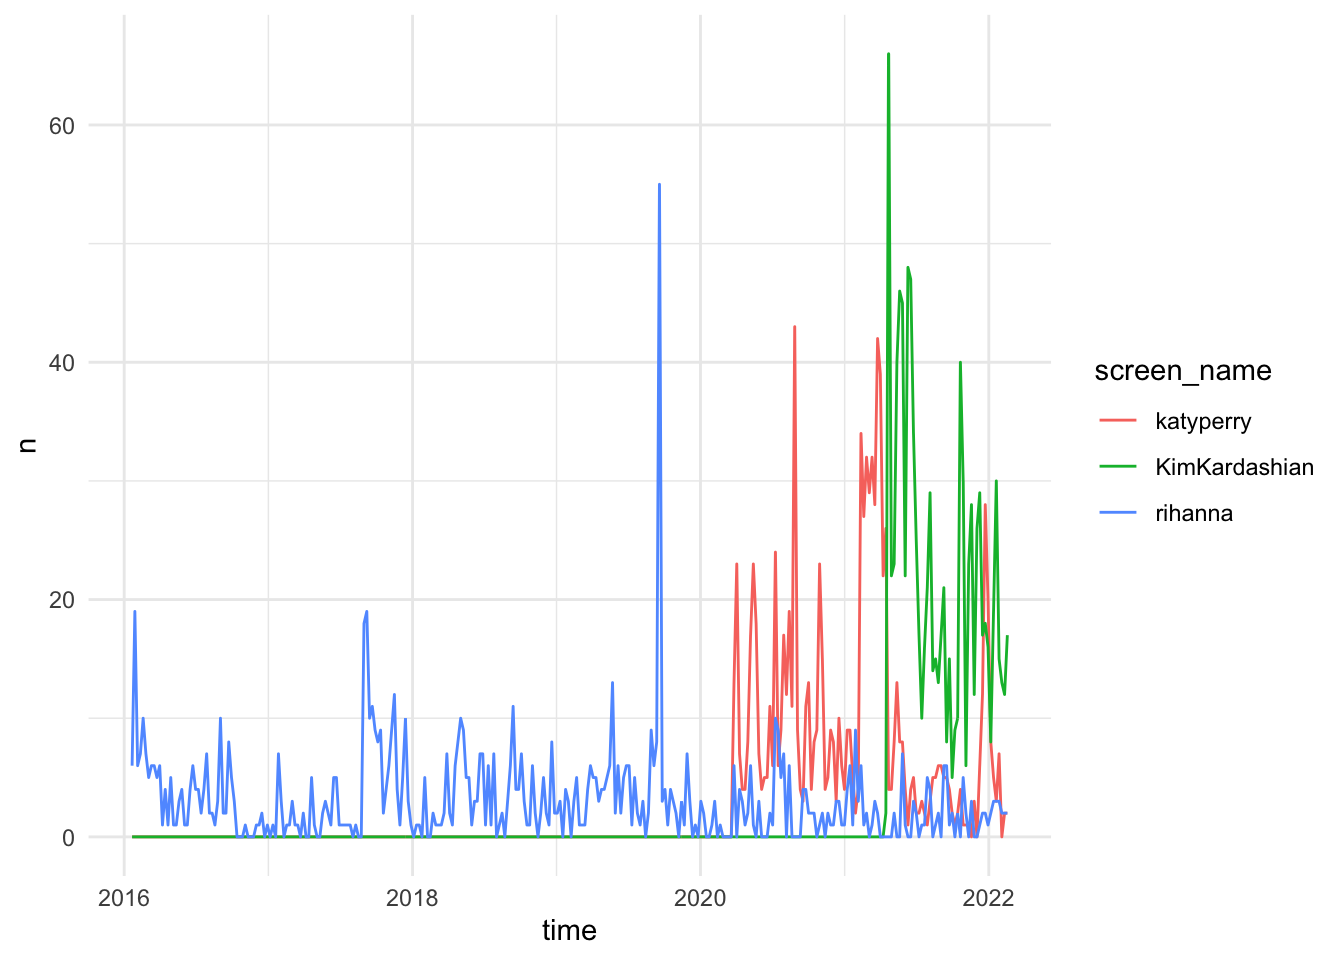
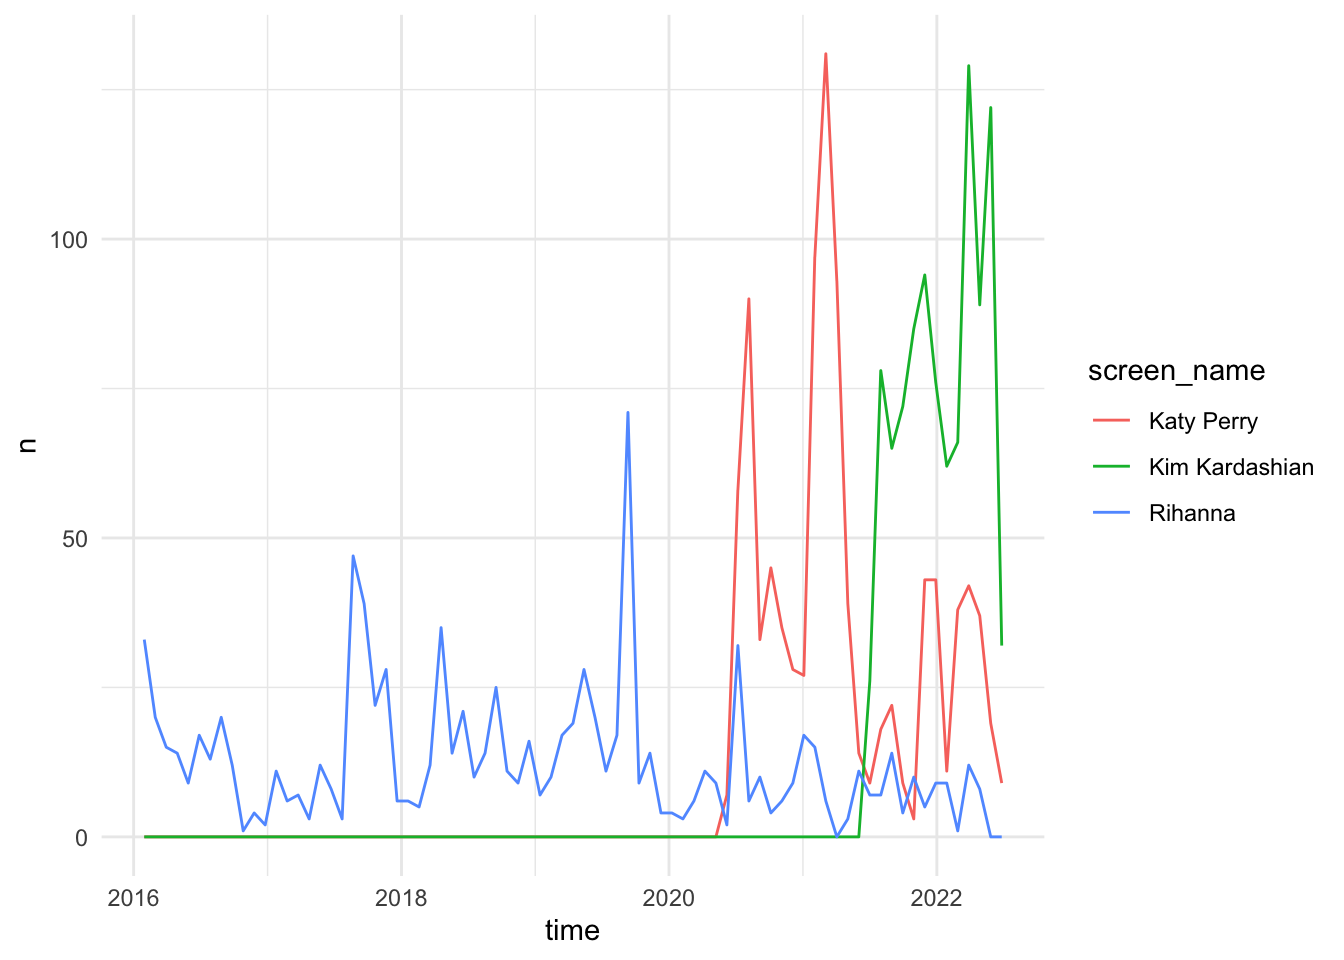
Update twitter exercise using new rtweet and Twitter API v2

diff --git a/content/notes/twitter-api-practice/index.md b/content/notes/twitter-api-practice/index.md
@@ -19,7 +19,7 @@ menu:
 
 ```r
 library(tidyverse)
-library(broom)
+library(rtweet)
 
 set.seed(1234)
 theme_set(theme_minimal())
@@ -44,20 +44,22 @@ Popular packages for the Twitter API in R include:
 
 * [`twitteR`](https://cran.rstudio.com/web/packages/twitteR/index.html) is the most popular package for R, but it only allows you to access the REST API. It is also deprecated (not actively updated), in lieu of a new up-and-coming package (identified below)
 * [`streamR`](https://cran.rstudio.com/web/packages/streamR/index.html) is more complicated, but allows you to query the Streaming API from R. It is ancient in computational terms (last updated in January 2014), but does what it needs to do.
-* [`rtweet`](http://rtweet.info/) is a relatively recent addition to the R package universe that allows you to access both the REST and streaming APIs.
+* [`rtweet`](https://docs.ropensci.org/rtweet/) is a relatively recent addition to the R package universe that allows you to access both the REST and streaming APIs.
 
 ## Using `rtweet`
 
-Here, we are going to practice using the `rtweet` package to search Twitter.
+Here, we are going to practice using the `rtweet` package to search Twitter. Use the version on GitHub for the most recent updates.
 
 ```r
-install.packages("rtweet")
+remotes::install_github("ropensci/rtweet")
 ```
 
 
 ```r
 library(rtweet)
 ```
+
+
 
 ## OAuth authentication
 
@@ -118,76 +120,76 @@ Note that the Twitter REST API limits all searches to the past 6-9 days. **You w
 
 ## Searching users
 
-Use `get_timeline()` or `get_timelines()` to retrieve tweets from one or more specified Twitter users. This only works for users with public profiles or those that have authorized your app.
+Use `get_timeline()` to retrieve tweets from one or more specified Twitter users. This only works for users with public profiles or those that have authorized your app.
 
 
 ```r
-countvoncount <- get_timeline(user = "countvoncount", n = 1000)
+countvoncount <- get_timeline(user = "countvoncount", n = 4000)
 countvoncount
 ```
 
 ```
-## # A tibble: 1,000 × 90
-##    user_id   status_id           created_at          screen_name   text   source
-##    <chr>     <chr>               <dttm>              <chr>         <chr>  <chr> 
-##  1 555129716 1468700740285874180 2021-12-08 21:55:18 CountVonCount Three… Count…
-##  2 555129716 1468640341196738564 2021-12-08 17:55:18 CountVonCount Three… Count…
-##  3 555129716 1468429755242455040 2021-12-08 03:58:30 CountVonCount Three… Count…
-##  4 555129716 1468339156493426693 2021-12-07 21:58:29 CountVonCount Three… Count…
-##  5 555129716 1468034370204221444 2021-12-07 01:47:23 CountVonCount Three… Count…
-##  6 555129716 1467958871172034568 2021-12-06 20:47:22 CountVonCount Three… Count…
-##  7 555129716 1467613900413992960 2021-12-05 21:56:35 CountVonCount Three… Count…
-##  8 555129716 1467266070788595724 2021-12-04 22:54:26 CountVonCount Three… Count…
-##  9 555129716 1466873476569092105 2021-12-03 20:54:24 CountVonCount Three… Count…
-## 10 555129716 1466552417869312006 2021-12-02 23:38:38 CountVonCount Three… Count…
-## # … with 990 more rows, and 84 more variables: display_text_width <dbl>,
-## #   reply_to_status_id <lgl>, reply_to_user_id <lgl>,
-## #   reply_to_screen_name <lgl>, is_quote <lgl>, is_retweet <lgl>,
-## #   favorite_count <int>, retweet_count <int>, quote_count <int>,
-## #   reply_count <int>, hashtags <list>, symbols <list>, urls_url <list>,
-## #   urls_t.co <list>, urls_expanded_url <list>, media_url <list>,
-## #   media_t.co <list>, media_expanded_url <list>, media_type <list>, …
+## # A tibble: 3,250 × 43
+##    created_at               id id_str       full_text truncated display_text_ra…
+##    <dttm>                <dbl> <chr>        <chr>     <lgl>                <dbl>
+##  1 2022-07-10 13:21:59 1.55e18 15461980612… Three th… FALSE                   39
+##  2 2022-07-09 13:21:57 1.55e18 15458356669… Three th… FALSE                   50
+##  3 2022-07-08 15:21:56 1.55e18 15455034720… Three th… FALSE                   38
+##  4 2022-07-08 09:21:55 1.55e18 15454128729… Three th… FALSE                   38
+##  5 2022-07-07 15:21:54 1.55e18 15451410766… Three th… FALSE                   34
+##  6 2022-07-06 12:21:52 1.54e18 15447333824… Three th… FALSE                   39
+##  7 2022-07-06 08:21:52 1.54e18 15446729831… Three th… FALSE                   50
+##  8 2022-07-05 17:21:51 1.54e18 15444464861… Three th… FALSE                   40
+##  9 2022-07-05 08:21:50 1.54e18 15443105881… Three th… FALSE                   38
+## 10 2022-07-04 19:21:49 1.54e18 15441142913… Three th… FALSE                   39
+## # … with 3,240 more rows, and 37 more variables: entities <list>, source <chr>,
+## #   in_reply_to_status_id <lgl>, in_reply_to_status_id_str <lgl>,
+## #   in_reply_to_user_id <lgl>, in_reply_to_user_id_str <lgl>,
+## #   in_reply_to_screen_name <lgl>, geo <list>, coordinates <list>,
+## #   place <list>, contributors <lgl>, is_quote_status <lgl>,
+## #   retweet_count <int>, favorite_count <int>, favorited <lgl>,
+## #   retweeted <lgl>, lang <chr>, possibly_sensitive <list>, …
 ```
 
-With `get_timelines()`, you are not limited to only the most recent 6-9 days of tweets.
+With `get_timeline()`, you are not limited to only the most recent 6-9 days of tweets.
 
 ## Visualizing tweets
 
 Because the resulting objects are data frames, you can perform standard data transformation, summarization, and visualization on the underlying data.
 
-`rtweet` includes the `ts_plot()` function which automates some common time series visualization methods. For example, we can quickly visualize the frequency of `#rstats` tweets:
+`rtweet` includes the `ts_plot()` function which automates some common time series visualization methods. For example, we can quickly visualize the frequency of `@countvoncount` tweets:
 
 
 ```r
-ts_plot(rt, by = "3 hours")
+ts_plot(countvoncount, by = "1 week")
 ```
 
-<img src="{{< blogdown/postref >}}index_files/figure-html/rstats-freq-1.png" width="672" />
+<img src="{{< blogdown/postref >}}index_files/figure-html/countvoncount-freq-1.png" width="672" />
 
 The `by` argument allows us to aggregate over different lengths of time.
 
 
 ```r
-ts_plot(rt, by = "1 hours")
+ts_plot(countvoncount, by = "1 month")
 ```
 
-<img src="{{< blogdown/postref >}}index_files/figure-html/rstats-freq-day-1.png" width="672" />
+<img src="{{< blogdown/postref >}}index_files/figure-html/countvoncount-freq-month-1.png" width="672" />
 
 And because `ts_plot()` uses `ggplot2`, we can modify the graphs using familiar `ggplot2` functions:
 
 
 ```r
-ts_plot(rt, by = "3 hours") +
+ts_plot(countvoncount, by = "1 week") +
   theme(plot.title = element_text(face = "bold")) +
   labs(
     x = NULL, y = NULL,
-    title = "Frequency of #rstats Twitter statuses from past 9 days",
-    subtitle = "Twitter status (tweet) counts aggregated using three-hour intervals",
+    title = "Frequency of @countvoncount Twitter posts",
+    subtitle = "Twitter status (tweet) counts aggregated using one week intervals",
     caption = "\nSource: Data collected from Twitter's REST API via rtweet"
   )
 ```
 
-<img src="{{< blogdown/postref >}}index_files/figure-html/rstats-freq-clean-1.png" width="672" />
+<img src="{{< blogdown/postref >}}index_files/figure-html/countvoncount-freq-clean-1.png" width="672" />
 
 ## Exercise: Practice using `rtweet`
 
@@ -198,14 +200,30 @@ ts_plot(rt, by = "3 hours") +
 
 
 ```r
-popstars <- get_timelines(
-  user = c("katyperry", "KimKardashian", "rihanna"),
+katy_perry <- get_timeline(
+  user = "katyperry",
   n = 1000
 )
 
-popstars %>%
+kim_kardashian <- get_timeline(
+  user = "KimKardashian",
+  n = 1000
+)
+
+rihanna <- get_timeline(
+  user = "rihanna",
+  n = 1000
+)
+
+# combine, group by character, and plot weekly tweet frequency
+bind_rows(
+  `Katy Perry` = katy_perry %>% select(created_at),
+  `Kim Kardashian` = kim_kardashian %>% select(created_at),
+  `Rihanna` = rihanna %>% select(created_at),
+  .id = "screen_name"
+) %>%
   group_by(screen_name) %>%
-  ts_plot(by = "week")
+  ts_plot(by = "months")
 ```
 
 <img src="{{< blogdown/postref >}}index_files/figure-html/twitter-popstars-1.png" width="672" />
@@ -229,110 +247,101 @@ devtools::session_info()
 ```
 ## ─ Session info ───────────────────────────────────────────────────────────────
 ##  setting  value
-##  version  R version 4.1.2 (2021-11-01)
-##  os       macOS Monterey 12.1
+##  version  R version 4.2.0 (2022-04-22)
+##  os       macOS Monterey 12.2.1
 ##  system   aarch64, darwin20
 ##  ui       X11
 ##  language (EN)
 ##  collate  en_US.UTF-8
 ##  ctype    en_US.UTF-8
 ##  tz       America/Chicago
-##  date     2022-02-24
+##  date     2022-07-11
 ##  pandoc   2.17.1.1 @ /Applications/RStudio.app/Contents/MacOS/quarto/bin/ (via rmarkdown)
 ## 
 ## ─ Packages ───────────────────────────────────────────────────────────────────
-##  package     * version date (UTC) lib source
-##  askpass       1.1     2019-01-13 [1] CRAN (R 4.1.0)
-##  assertthat    0.2.1   2019-03-21 [1] CRAN (R 4.1.0)
-##  backports     1.4.1   2021-12-13 [1] CRAN (R 4.1.1)
-##  blogdown      1.7     2021-12-19 [1] CRAN (R 4.1.1)
-##  bookdown      0.24    2021-09-02 [1] CRAN (R 4.1.1)
-##  brio          1.1.3   2021-11-30 [1] CRAN (R 4.1.1)
-##  broom       * 0.7.12  2022-01-28 [1] CRAN (R 4.1.1)
-##  bslib         0.3.1   2021-10-06 [1] CRAN (R 4.1.1)
-##  cachem        1.0.6   2021-08-19 [1] CRAN (R 4.1.1)
-##  callr         3.7.0   2021-04-20 [1] CRAN (R 4.1.0)
-##  cellranger    1.1.0   2016-07-27 [1] CRAN (R 4.1.0)
-##  cli           3.2.0   2022-02-14 [1] CRAN (R 4.1.1)
-##  codetools     0.2-18  2020-11-04 [1] CRAN (R 4.1.2)
-##  colorspace    2.0-3   2022-02-21 [1] CRAN (R 4.1.1)
-##  crayon        1.5.0   2022-02-14 [1] CRAN (R 4.1.1)
-##  curl          4.3.2   2021-06-23 [1] CRAN (R 4.1.0)
-##  DBI           1.1.2   2021-12-20 [1] CRAN (R 4.1.1)
-##  dbplyr        2.1.1   2021-04-06 [1] CRAN (R 4.1.0)
-##  desc          1.4.0   2021-09-28 [1] CRAN (R 4.1.1)
-##  devtools      2.4.3   2021-11-30 [1] CRAN (R 4.1.1)
-##  digest        0.6.29  2021-12-01 [1] CRAN (R 4.1.1)
-##  dplyr       * 1.0.7   2021-06-18 [1] CRAN (R 4.1.0)
-##  ellipsis      0.3.2   2021-04-29 [1] CRAN (R 4.1.0)
-##  evaluate      0.15    2022-02-18 [1] CRAN (R 4.1.1)
-##  fansi         1.0.2   2022-01-14 [1] CRAN (R 4.1.1)
-##  farver        2.1.0   2021-02-28 [1] CRAN (R 4.1.0)
-##  fastmap       1.1.0   2021-01-25 [1] CRAN (R 4.1.0)
-##  forcats     * 0.5.1   2021-01-27 [1] CRAN (R 4.1.1)
-##  fs            1.5.2   2021-12-08 [1] CRAN (R 4.1.1)
-##  generics      0.1.2   2022-01-31 [1] CRAN (R 4.1.1)
-##  ggplot2     * 3.3.5   2021-06-25 [1] CRAN (R 4.1.1)
-##  glue          1.6.1   2022-01-22 [1] CRAN (R 4.1.1)
-##  gtable        0.3.0   2019-03-25 [1] CRAN (R 4.1.1)
-##  haven         2.4.3   2021-08-04 [1] CRAN (R 4.1.1)
-##  here          1.0.1   2020-12-13 [1] CRAN (R 4.1.0)
-##  highr         0.9     2021-04-16 [1] CRAN (R 4.1.0)
-##  hms           1.1.1   2021-09-26 [1] CRAN (R 4.1.1)
-##  htmltools     0.5.2   2021-08-25 [1] CRAN (R 4.1.1)
-##  httr          1.4.2   2020-07-20 [1] CRAN (R 4.1.0)
-##  jquerylib     0.1.4   2021-04-26 [1] CRAN (R 4.1.0)
-##  jsonlite      1.7.3   2022-01-17 [1] CRAN (R 4.1.1)
-##  knitr         1.37    2021-12-16 [1] CRAN (R 4.1.1)
-##  labeling      0.4.2   2020-10-20 [1] CRAN (R 4.1.0)
-##  lifecycle     1.0.1   2021-09-24 [1] CRAN (R 4.1.1)
-##  lubridate     1.8.0   2021-10-07 [1] CRAN (R 4.1.1)
-##  magrittr      2.0.2   2022-01-26 [1] CRAN (R 4.1.1)
-##  memoise       2.0.1   2021-11-26 [1] CRAN (R 4.1.1)
-##  modelr        0.1.8   2020-05-19 [1] CRAN (R 4.1.0)
-##  munsell       0.5.0   2018-06-12 [1] CRAN (R 4.1.0)
-##  openssl       1.4.6   2021-12-19 [1] CRAN (R 4.1.1)
-##  pillar        1.7.0   2022-02-01 [1] CRAN (R 4.1.1)
-##  pkgbuild      1.3.1   2021-12-20 [1] CRAN (R 4.1.1)
-##  pkgconfig     2.0.3   2019-09-22 [1] CRAN (R 4.1.0)
-##  pkgload       1.2.4   2021-11-30 [1] CRAN (R 4.1.1)
-##  prettyunits   1.1.1   2020-01-24 [1] CRAN (R 4.1.0)
-##  processx      3.5.2   2021-04-30 [1] CRAN (R 4.1.0)
-##  progress      1.2.2   2019-05-16 [1] CRAN (R 4.1.0)
-##  ps            1.6.0   2021-02-28 [1] CRAN (R 4.1.0)
-##  purrr       * 0.3.4   2020-04-17 [1] CRAN (R 4.1.0)
-##  R6            2.5.1   2021-08-19 [1] CRAN (R 4.1.1)
-##  Rcpp          1.0.8   2022-01-13 [1] CRAN (R 4.1.1)
-##  readr       * 2.1.1   2021-11-30 [1] CRAN (R 4.1.1)
-##  readxl        1.3.1   2019-03-13 [1] CRAN (R 4.1.0)
-##  remotes       2.4.2   2021-11-30 [1] CRAN (R 4.1.1)
-##  reprex        2.0.1   2021-08-05 [1] CRAN (R 4.1.1)
-##  rlang         1.0.1   2022-02-03 [1] CRAN (R 4.1.1)
-##  rmarkdown     2.11    2021-09-14 [1] CRAN (R 4.1.1)
-##  rprojroot     2.0.2   2020-11-15 [1] CRAN (R 4.1.0)
-##  rstudioapi    0.13    2020-11-12 [1] CRAN (R 4.1.0)
-##  rtweet      * 0.7.0   2020-01-08 [1] CRAN (R 4.1.0)
-##  rvest         1.0.2   2021-10-16 [1] CRAN (R 4.1.1)
-##  sass          0.4.0   2021-05-12 [1] CRAN (R 4.1.0)
-##  scales        1.1.1   2020-05-11 [1] CRAN (R 4.1.0)
-##  sessioninfo   1.2.2   2021-12-06 [1] CRAN (R 4.1.1)
-##  stringi       1.7.6   2021-11-29 [1] CRAN (R 4.1.1)
-##  stringr     * 1.4.0   2019-02-10 [1] CRAN (R 4.1.1)
-##  testthat      3.1.2   2022-01-20 [1] CRAN (R 4.1.1)
-##  tibble      * 3.1.6   2021-11-07 [1] CRAN (R 4.1.1)
-##  tidyr       * 1.1.4   2021-09-27 [1] CRAN (R 4.1.1)
-##  tidyselect    1.1.1   2021-04-30 [1] CRAN (R 4.1.0)
-##  tidyverse   * 1.3.1   2021-04-15 [1] CRAN (R 4.1.0)
-##  tzdb          0.2.0   2021-10-27 [1] CRAN (R 4.1.1)
-##  usethis       2.1.5   2021-12-09 [1] CRAN (R 4.1.1)
-##  utf8          1.2.2   2021-07-24 [1] CRAN (R 4.1.0)
-##  vctrs         0.3.8   2021-04-29 [1] CRAN (R 4.1.0)
-##  withr         2.4.3   2021-11-30 [1] CRAN (R 4.1.1)
-##  xfun          0.29    2021-12-14 [1] CRAN (R 4.1.1)
-##  xml2          1.3.3   2021-11-30 [1] CRAN (R 4.1.1)
-##  yaml          2.3.5   2022-02-21 [1] CRAN (R 4.1.1)
+##  package     * version    date (UTC) lib source
+##  assertthat    0.2.1      2019-03-21 [1] CRAN (R 4.2.0)
+##  backports     1.4.1      2021-12-13 [1] CRAN (R 4.2.0)
+##  blogdown      1.10       2022-05-10 [1] CRAN (R 4.2.0)
+##  bookdown      0.26       2022-04-15 [1] CRAN (R 4.2.0)
+##  brio          1.1.3      2021-11-30 [1] CRAN (R 4.2.0)
+##  broom         0.8.0      2022-04-13 [1] CRAN (R 4.2.0)
+##  bslib         0.3.1      2021-10-06 [1] CRAN (R 4.2.0)
+##  cachem        1.0.6      2021-08-19 [1] CRAN (R 4.2.0)
+##  callr         3.7.0      2021-04-20 [1] CRAN (R 4.2.0)
+##  cellranger    1.1.0      2016-07-27 [1] CRAN (R 4.2.0)
+##  cli           3.3.0      2022-04-25 [1] CRAN (R 4.2.0)
+##  colorspace    2.0-3      2022-02-21 [1] CRAN (R 4.2.0)
+##  crayon        1.5.1      2022-03-26 [1] CRAN (R 4.2.0)
+##  DBI           1.1.2      2021-12-20 [1] CRAN (R 4.2.0)
+##  dbplyr        2.2.0      2022-06-05 [1] CRAN (R 4.2.0)
+##  desc          1.4.1      2022-03-06 [1] CRAN (R 4.2.0)
+##  devtools      2.4.3      2021-11-30 [1] CRAN (R 4.2.0)
+##  digest        0.6.29     2021-12-01 [1] CRAN (R 4.2.0)
+##  dplyr       * 1.0.9      2022-04-28 [1] CRAN (R 4.2.0)
+##  ellipsis      0.3.2      2021-04-29 [1] CRAN (R 4.2.0)
+##  evaluate      0.15       2022-02-18 [1] CRAN (R 4.2.0)
+##  fansi         1.0.3      2022-03-24 [1] CRAN (R 4.2.0)
+##  fastmap       1.1.0      2021-01-25 [1] CRAN (R 4.2.0)
+##  forcats     * 0.5.1      2021-01-27 [1] CRAN (R 4.2.0)
+##  fs            1.5.2      2021-12-08 [1] CRAN (R 4.2.0)
+##  generics      0.1.2      2022-01-31 [1] CRAN (R 4.2.0)
+##  ggplot2     * 3.3.6      2022-05-03 [1] CRAN (R 4.2.0)
+##  glue          1.6.2      2022-02-24 [1] CRAN (R 4.2.0)
+##  gtable        0.3.0      2019-03-25 [1] CRAN (R 4.2.0)
+##  haven         2.5.0      2022-04-15 [1] CRAN (R 4.2.0)
+##  here          1.0.1      2020-12-13 [1] CRAN (R 4.2.0)
+##  hms           1.1.1      2021-09-26 [1] CRAN (R 4.2.0)
+##  htmltools     0.5.2      2021-08-25 [1] CRAN (R 4.2.0)
+##  httr          1.4.3      2022-05-04 [1] CRAN (R 4.2.0)
+##  jquerylib     0.1.4      2021-04-26 [1] CRAN (R 4.2.0)
+##  jsonlite      1.8.0      2022-02-22 [1] CRAN (R 4.2.0)
+##  knitr         1.39       2022-04-26 [1] CRAN (R 4.2.0)
+##  lifecycle     1.0.1      2021-09-24 [1] CRAN (R 4.2.0)
+##  lubridate     1.8.0      2021-10-07 [1] CRAN (R 4.2.0)
+##  magrittr      2.0.3      2022-03-30 [1] CRAN (R 4.2.0)
+##  memoise       2.0.1      2021-11-26 [1] CRAN (R 4.2.0)
+##  modelr        0.1.8      2020-05-19 [1] CRAN (R 4.2.0)
+##  munsell       0.5.0      2018-06-12 [1] CRAN (R 4.2.0)
+##  pillar        1.7.0      2022-02-01 [1] CRAN (R 4.2.0)
+##  pkgbuild      1.3.1      2021-12-20 [1] CRAN (R 4.2.0)
+##  pkgconfig     2.0.3      2019-09-22 [1] CRAN (R 4.2.0)
+##  pkgload       1.2.4      2021-11-30 [1] CRAN (R 4.2.0)
+##  prettyunits   1.1.1      2020-01-24 [1] CRAN (R 4.2.0)
+##  processx      3.5.3      2022-03-25 [1] CRAN (R 4.2.0)
+##  ps            1.7.0      2022-04-23 [1] CRAN (R 4.2.0)
+##  purrr       * 0.3.4      2020-04-17 [1] CRAN (R 4.2.0)
+##  R6            2.5.1      2021-08-19 [1] CRAN (R 4.2.0)
+##  readr       * 2.1.2      2022-01-30 [1] CRAN (R 4.2.0)
+##  readxl        1.4.0      2022-03-28 [1] CRAN (R 4.2.0)
+##  remotes       2.4.2      2021-11-30 [1] CRAN (R 4.2.0)
+##  reprex        2.0.1      2021-08-05 [1] CRAN (R 4.2.0)
+##  rlang         1.0.2      2022-03-04 [1] CRAN (R 4.2.0)
+##  rmarkdown     2.14       2022-04-25 [1] CRAN (R 4.2.0)
+##  rprojroot     2.0.3      2022-04-02 [1] CRAN (R 4.2.0)
+##  rstudioapi    0.13       2020-11-12 [1] CRAN (R 4.2.0)
+##  rtweet      * 0.7.0.9030 2022-06-08 [1] Github (ropensci/rtweet@121f360)
+##  rvest         1.0.2      2021-10-16 [1] CRAN (R 4.2.0)
+##  sass          0.4.1      2022-03-23 [1] CRAN (R 4.2.0)
+##  scales        1.2.0      2022-04-13 [1] CRAN (R 4.2.0)
+##  sessioninfo   1.2.2      2021-12-06 [1] CRAN (R 4.2.0)
+##  stringi       1.7.6      2021-11-29 [1] CRAN (R 4.2.0)
+##  stringr     * 1.4.0      2019-02-10 [1] CRAN (R 4.2.0)
+##  testthat      3.1.4      2022-04-26 [1] CRAN (R 4.2.0)
+##  tibble      * 3.1.7      2022-05-03 [1] CRAN (R 4.2.0)
+##  tidyr       * 1.2.0      2022-02-01 [1] CRAN (R 4.2.0)
+##  tidyselect    1.1.2      2022-02-21 [1] CRAN (R 4.2.0)
+##  tidyverse   * 1.3.1      2021-04-15 [1] CRAN (R 4.2.0)
+##  tzdb          0.3.0      2022-03-28 [1] CRAN (R 4.2.0)
+##  usethis       2.1.6      2022-05-25 [1] CRAN (R 4.2.0)
+##  utf8          1.2.2      2021-07-24 [1] CRAN (R 4.2.0)
+##  vctrs         0.4.1      2022-04-13 [1] CRAN (R 4.2.0)
+##  withr         2.5.0      2022-03-03 [1] CRAN (R 4.2.0)
+##  xfun          0.31       2022-05-10 [1] CRAN (R 4.2.0)
+##  xml2          1.3.3      2021-11-30 [1] CRAN (R 4.2.0)
+##  yaml          2.3.5      2022-02-21 [1] CRAN (R 4.2.0)
 ## 
-##  [1] /Library/Frameworks/R.framework/Versions/4.1-arm64/Resources/library
+##  [1] /Library/Frameworks/R.framework/Versions/4.2-arm64/Resources/library
 ## 
 ## ──────────────────────────────────────────────────────────────────────────────
 ```
